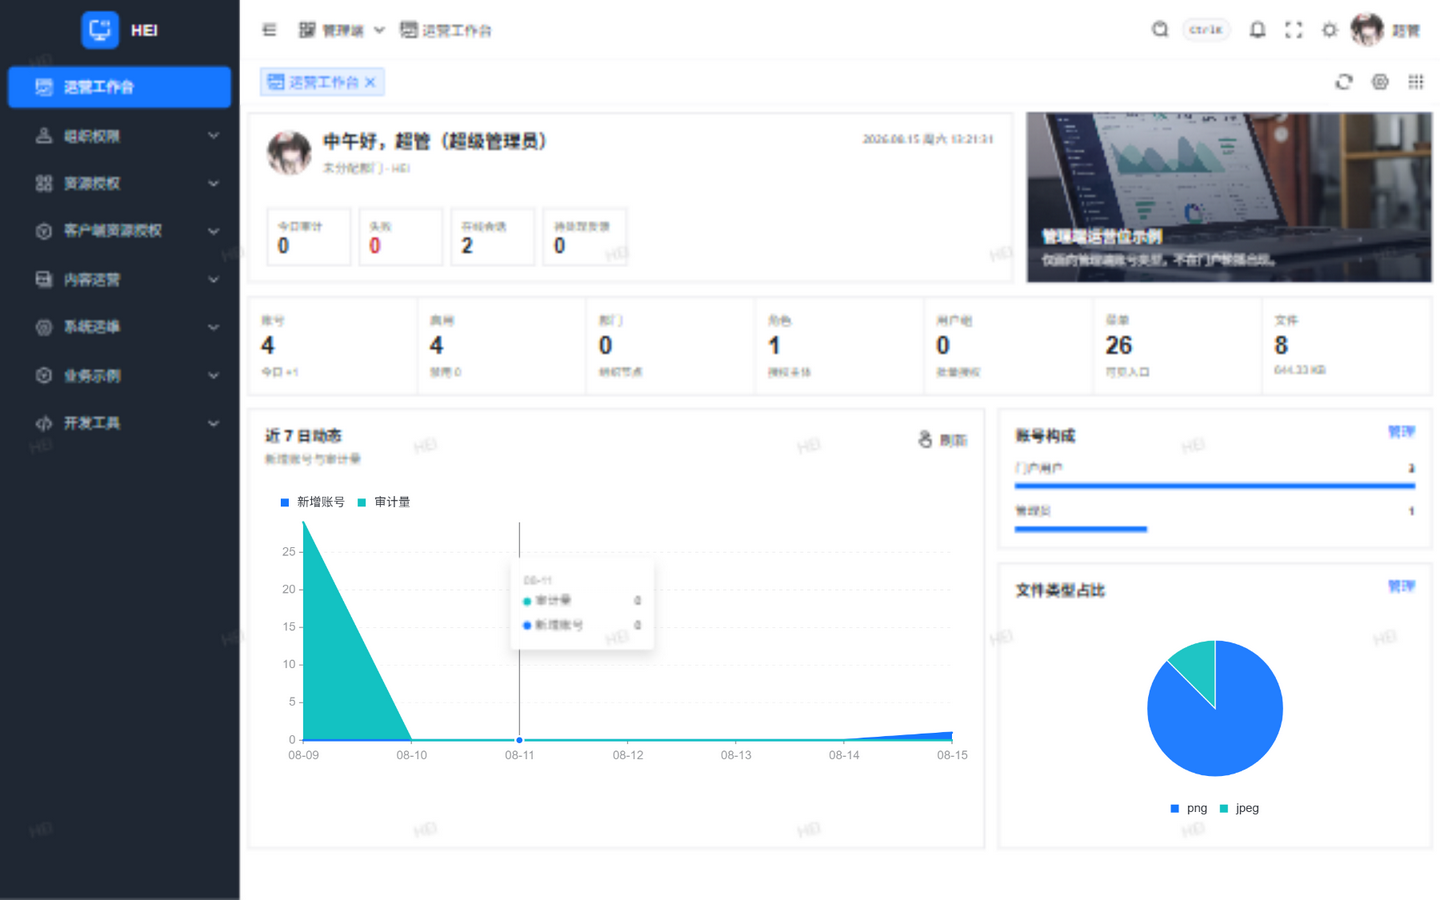
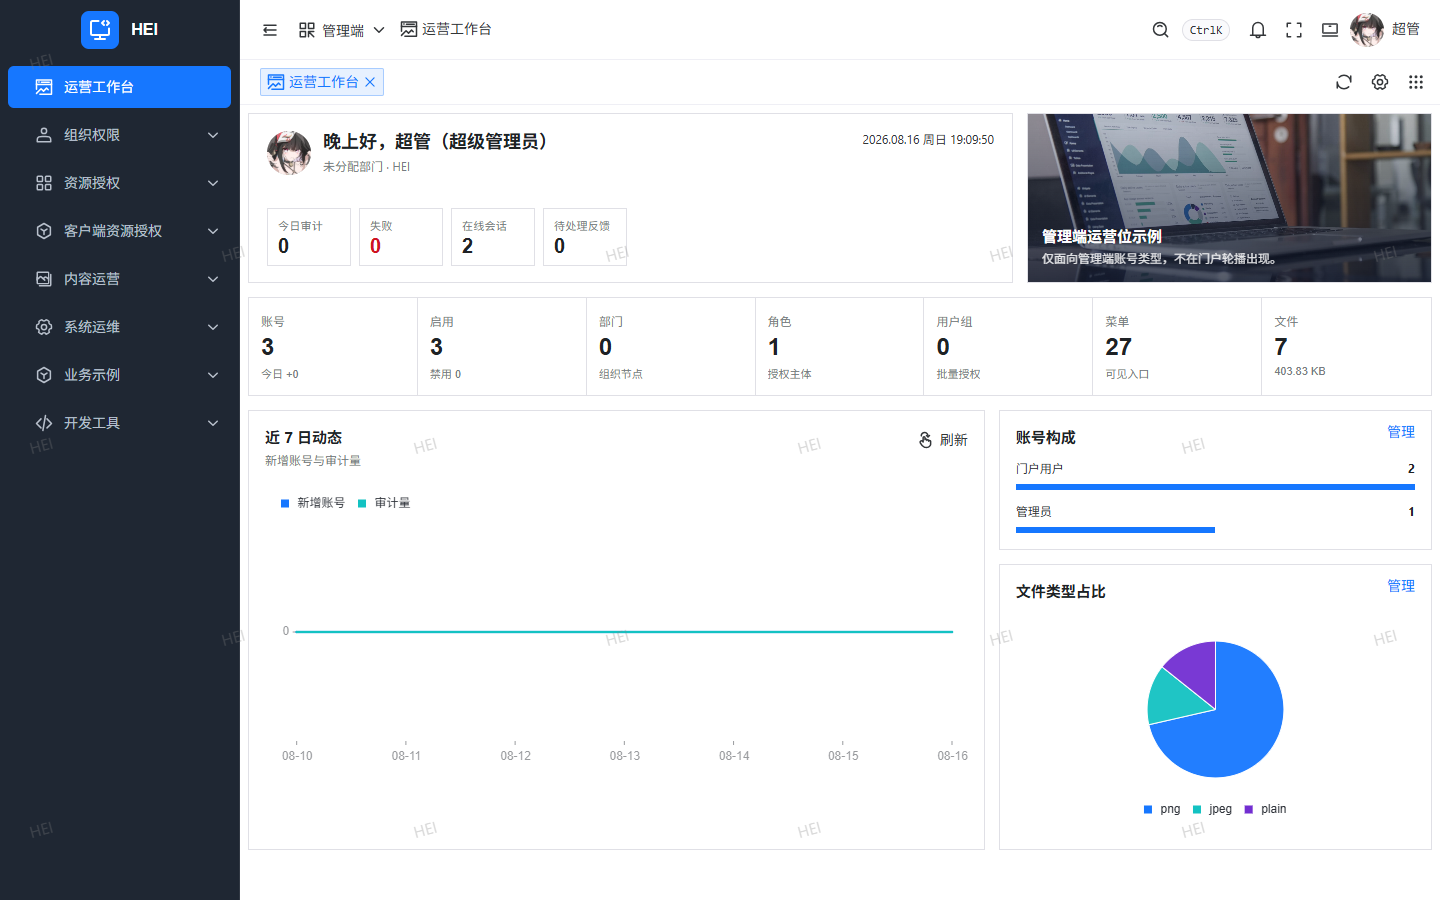
docs: 更新 README，增加 Vue 3 和 React 前端徽标，调整项目描述，补充功能特性和技术栈信息，优化目录结构，新增业务示例和相关文档链接；更新多张截图以反映最新界面

diff --git a/README.md b/README.md
@@ -4,19 +4,26 @@
 ![Gin](https://img.shields.io/badge/Gin-1.12-blue)
 ![PostgreSQL](https://img.shields.io/badge/PostgreSQL-Supported-4169E1?logo=postgresql&logoColor=white)
 ![Redis](https://img.shields.io/badge/Redis-Supported-DC382D?logo=redis&logoColor=white)
+![Vue](https://img.shields.io/badge/Admin-Vue%203-4FC08D?logo=vuedotjs&logoColor=white)
+![React](https://img.shields.io/badge/Portal-React-61DAFB?logo=react&logoColor=black)
 ![License](https://img.shields.io/badge/License-Apache_2.0-blue)
+![Version](https://img.shields.io/badge/version-1.0.0--beta-orange)
 
-**HEI Gin** 是一个 Go / Gin 后端脚手架：一个进程同时提供**管理端（Admin）**与**门户（Portal）**双端 API，覆盖账号认证、组织权限（RBAC）、系统管理、消息反馈与运营工作台等常用能力。配合同仓维护的 Vue 3 / React / uni-app 三套前端，开箱即用、可按需裁剪。
+**HEI Gin** 是一套开箱即用的 Go / Gin 工程化脚手架：单个后端进程同时提供 **Admin** 与 **Portal** 双端 API，同仓维护 Vue 3 / React / uni-app 前端，覆盖认证授权、组织权限、系统运维、消息通知与运营看板等常见后台能力。与 [hei-boot](https://github.com/jiangbyte/hei-boot)、[hei-fastapi](https://github.com/jiangbyte/hei-fastapi) 保持 API 契约与前端对齐。
 
-## 特性
+> 当前版本：`1.0.0-beta` · 协议：[Apache License 2.0](LICENSE)
 
-- **双端账号体系**：ADMIN / PORTAL 独立会话；密码 RSA 加密传输、验证码登录、登录锁定与限流、OAuth 三方登录
-- **RBAC 权限**：账号 / 角色 / 部门 / 用户组 / 岗位，菜单与资源多层授权，数据范围过滤
-- **系统管理**：字典、配置（敏感加密）、Banner、文件存储（S3 兼容对象存储）、公告通知、意见反馈、弱口令清单
-- **运维能力**：操作审计与告警、运营工作台概览与 7 日趋势、内嵌任务调度（DB 扫描 + Redis 锁，`sys_job` / CRON|FIXED，对齐 hei-boot）
-- **操作审计**：路由级 `middleware.OperationAudit(resourceType, action)` 传参（对齐 hei-boot `@OperationAudit`）
-- **代码生成**：单表 / 树表 / 主子表方案，预览与 ZIP 下载（含前端与菜单权限 SQL）
-- **三端前端**：`web/admin`（Vue 3 + Naive UI）、`web/portal`（React + Ant Design）、`web/admin-uniapp`（uni-app）
+## 目录
+
+- [界面预览](#界面预览)
+- [功能特性](#功能特性)
+- [技术栈](#技术栈)
+- [工程结构](#工程结构)
+- [快速开始](#快速开始)
+- [默认账号](#默认账号)
+- [相关文档](#相关文档)
+- [姊妹项目](#姊妹项目)
+- [License](#license)
 
 ## 界面预览
 
@@ -58,12 +65,28 @@
     <td align="center">角色管理</td>
   </tr>
   <tr>
-    <td width="50%"><img src="docs/images/admin-iam-resource.png" alt="资源授权" /></td>
-    <td></td>
+    <td width="50%"><img src="docs/images/admin-iam-dept.png" alt="部门管理" /></td>
+    <td width="50%"><img src="docs/images/admin-iam-group.png" alt="用户组管理" /></td>
   </tr>
   <tr>
+    <td align="center">部门管理</td>
+    <td align="center">用户组管理</td>
+  </tr>
+  <tr>
+    <td width="50%"><img src="docs/images/admin-iam-position.png" alt="岗位管理" /></td>
+    <td width="50%"><img src="docs/images/admin-iam-resource.png" alt="资源授权" /></td>
+  </tr>
+  <tr>
+    <td align="center">岗位管理</td>
     <td align="center">资源授权</td>
-    <td></td>
+  </tr>
+  <tr>
+    <td width="50%"><img src="docs/images/admin-iam-resource-module.png" alt="资源模块" /></td>
+    <td width="50%"><img src="docs/images/admin-iam-client-resource.png" alt="客户端资源" /></td>
+  </tr>
+  <tr>
+    <td align="center">资源模块</td>
+    <td align="center">客户端资源</td>
   </tr>
 </table>
 
@@ -85,6 +108,14 @@
   <tr>
     <td align="center">操作审计</td>
     <td align="center">代码生成</td>
+  </tr>
+  <tr>
+    <td width="50%"><img src="docs/images/admin-sys-session.png" alt="在线会话" /></td>
+    <td width="50%"><img src="docs/images/admin-sys-login-log.png" alt="登录日志" /></td>
+  </tr>
+  <tr>
+    <td align="center">在线会话</td>
+    <td align="center">登录日志</td>
   </tr>
 </table>
 
@@ -109,59 +140,129 @@
   </tr>
 </table>
 
+### 管理端 · 业务示例
+
+<table>
+  <tr>
+    <td width="50%"><img src="docs/images/admin-biz-order.png" alt="订单示例" /></td>
+    <td></td>
+  </tr>
+  <tr>
+    <td align="center">订单示例</td>
+    <td></td>
+  </tr>
+</table>
+
+## 功能特性
+
+- **双端账号体系**：ADMIN / PORTAL 独立会话（Redis 不透明 Token，键对齐 fastapi `login:*`）；密码 RSA 传输、验证码登录、失败锁定与限流；可配置三方 OAuth 登录
+- **RBAC 权限**：账号 / 角色 / 部门 / 用户组 / 岗位；菜单、按钮与 API 资源授权；在线会话踢出
+- **系统管理**：字典、动态配置（`sys_config`，敏感项可加密）、Banner、公告 / 通知、意见反馈、弱口令库
+- **对象存储**：S3 兼容存储（MinIO / RustFS / 阿里云 OSS 等），引擎与凭证走运行时配置，直链或预签名访问
+- **运维能力**：操作审计与告警、登录日志、运营工作台（概览与近 7 日趋势）、内嵌任务调度（`sys_job`；DB 扫描 + Redis 锁 + cron）
+- **代码生成**：单表 / 树表 / 主子表方案，预览与 ZIP 下载（含前端与菜单权限 SQL）
+- **三端前端**：`web/admin`（Vue 3 + Naive UI）、`web/portal`（React + Ant Design）、`web/admin-uniapp`（uni-app）
+
+## 技术栈
+
+| 层级 | 技术 |
+| --- | --- |
+| 后端 | Go 1.25+ · Gin · 单 module 单体（`cmd/api`） |
+| 持久化 | PostgreSQL · GORM |
+| 缓存 / 会话 | Redis（go-redis）· 不透明会话 Token |
+| 配置 | Viper（`config.yaml`）+ 运行时 `sys_config` |
+| 其他 | AWS SDK v2（S3）· zap · robfig/cron · snowflake |
+| 管理端 | Vue 3 · Vite · TypeScript · Naive UI · Pinia · UnoCSS |
+| 门户 | React 19 · Vite · TypeScript · Ant Design · Zustand · UnoCSS |
+| 移动端 | uni-app 3 · Vue 3 · TypeScript · uview-pro |
+
+## 工程结构
+
+```text
+hei-gin
+├── cmd/api                   # 唯一可启动入口
+├── internal/
+│   ├── app/                  # 装配根（基础设施 + 模块钩子）
+│   ├── framework/            # 可修改运行时（config / security / middleware / storage / gojob …）
+│   └── modules/              # 业务模块（auth / iam / sys / profile / dashboard / biz …）
+├── web/
+│   ├── admin                 # 管理端（Vue 3）
+│   ├── portal                # 门户（React）
+│   └── admin-uniapp          # 管理端 uni-app
+├── configs/config.example.yaml
+├── scripts/db.sql            # 数据库结构 + 种子数据（对齐 hei-boot）
+└── docs/images               # README 截图
+```
+
 ## 快速开始
 
 ### 环境要求
 
-- Go 1.25+、PostgreSQL、Redis
-- Node.js 22+ 与 pnpm 9+（前端）
+- Go **1.25+**
+- PostgreSQL、Redis
+- Node.js **22+**、pnpm **9+**（前端）
 
-### 初始化数据库
+### 1. 初始化数据库
 
 ```bash
 createdb -U postgres -h 127.0.0.1 hei_gin
 psql -U postgres -h 127.0.0.1 -d hei_gin -f scripts/db.sql
 ```
 
-### 启动后端
+> 本地 / 演示环境以 [`scripts/db.sql`](scripts/db.sql) 全量重建库表与种子数据。
+
+### 2. 启动后端
 
 ```bash
 cp configs/config.example.yaml config.yaml
+# 按需修改 db / redis / app 等
 go run ./cmd/api
 ```
 
-启动后 API 位于 `http://127.0.0.1:8000`。
+| 项 | 地址 |
+| --- | --- |
+| API | http://127.0.0.1:8000 |
 
-### 启动前端
+### 3. 启动前端
 
 ```bash
-cd web/admin && pnpm install && pnpm dev   # http://127.0.0.1:5173
-cd web/portal && pnpm install && pnpm dev  # http://127.0.0.1:5174
+# 管理端 → http://127.0.0.1:5173
+cd web/admin && pnpm install && pnpm dev
+
+# 门户 → http://127.0.0.1:5174
+cd web/portal && pnpm install && pnpm dev
 ```
 
-### 默认账号
+uni-app 端见 [`web/admin-uniapp/README.md`](web/admin-uniapp/README.md)。
+
+## 默认账号
 
 | 端 | 地址 | 账号 | 密码 |
 | --- | --- | --- | --- |
 | Admin | http://localhost:5173 | `superadmin` | `123456` |
 | Portal | http://localhost:5174 | `user` | `123456` |
 
-> 生产环境首次启动后请立即修改默认密码。
+> 仅供本地演示。部署到非本机环境后请立即修改默认密码，并更换配置加密密钥、对象存储凭证等敏感项。
 
-## 文档
+## 相关文档
 
-- [docs/README.md](docs/README.md) — 架构与二次开发指南
-- [configs/config.example.yaml](configs/config.example.yaml) — 配置样例
-- [scripts/db.sql](scripts/db.sql) — 数据库 schema 与种子数据
+| 文档 | 说明 |
+| --- | --- |
+| [`docs/README.md`](docs/README.md) | 架构约定与二次开发索引 |
+| [`web/admin/README.md`](web/admin/README.md) | 管理端前端说明与环境变量 |
+| [`web/portal/README.md`](web/portal/README.md) | 门户前端说明与环境变量 |
+| [`web/admin-uniapp/README.md`](web/admin-uniapp/README.md) | uni-app 端说明 |
+| [`configs/config.example.yaml`](configs/config.example.yaml) | 后端配置样例 |
+| [`scripts/db.sql`](scripts/db.sql) | 数据库结构与种子数据 |
 
 ## 姊妹项目
 
 | 项目 | 说明 | 协议 |
 | --- | --- | --- |
 | [**hei-boot**](https://github.com/jiangbyte/hei-boot) | Spring Boot 工程化脚手架 | Apache License 2.0 |
-| [**hei-gin**](https://github.com/jiangbyte/hei-gin) | Go 轻量级后端框架 | Apache License 2.0 |
-| [**hei-fastapi**](https://github.com/jiangbyte/hei-fastapi) | FastAPI 原型项目（早期阶段，仅供参考） | Apache License 2.0 |
+| [**hei-gin**](https://github.com/jiangbyte/hei-gin) | Go 轻量级后端框架（本仓库） | Apache License 2.0 |
+| [**hei-fastapi**](https://github.com/jiangbyte/hei-fastapi) | FastAPI 异步脚手架 | Apache License 2.0 |
 
 ## License
 
-本项目使用 [Apache License 2.0](LICENSE) 开源协议，三个姊妹项目协议一致。完整条款见 [LICENSE](LICENSE)，版权归属声明见 [NOTICE](NOTICE)。
+本项目基于 [Apache License 2.0](LICENSE) 开源。完整条款见 [LICENSE](LICENSE)，版权声明见 [NOTICE](NOTICE)。
